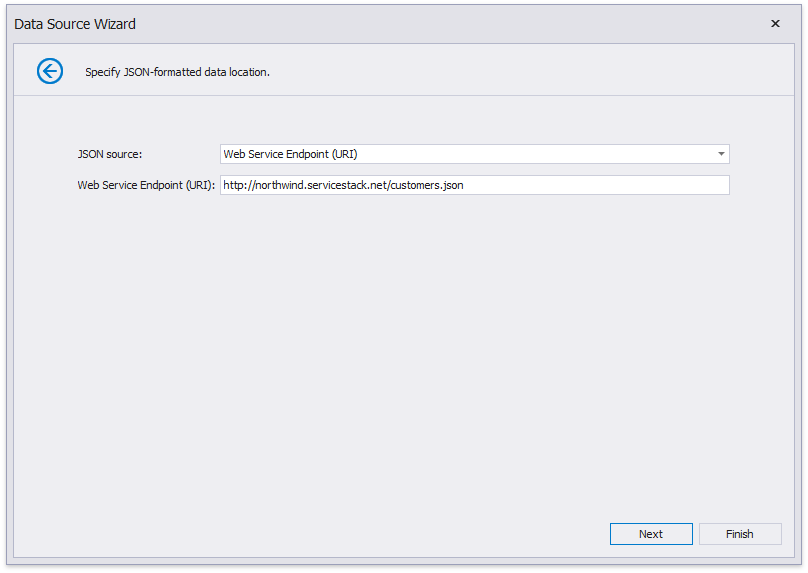
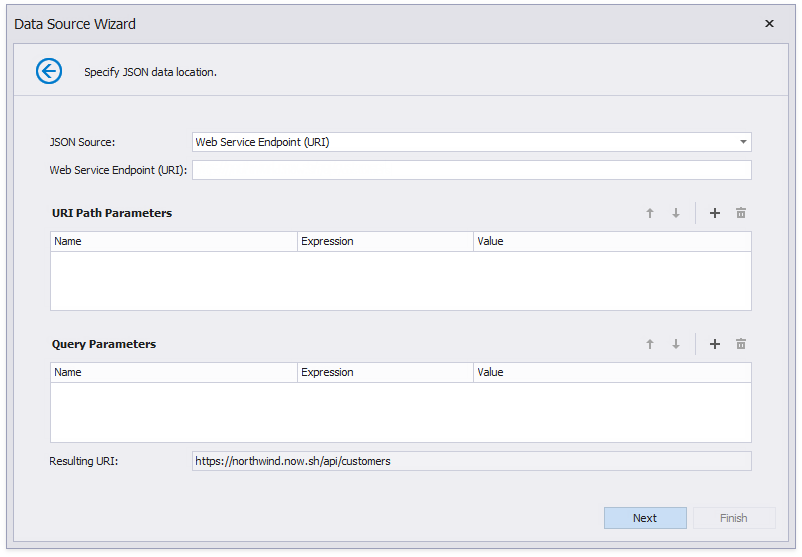
Describe JSON screens in Win

diff --git a/interface-elements-for-desktop/articles/report-designer/report-designer-for-winforms/bind-to-data/bind-a-report-to-json-data.md b/interface-elements-for-desktop/articles/report-designer/report-designer-for-winforms/bind-to-data/bind-a-report-to-json-data.md
@@ -23,29 +23,58 @@ This topic describes how to bind a report to JSON data at design time.
     > [!Note]
     > The Report Designer's Report Wizard provides the JSON option if the application has a reference to the open-source Newtonsoft.Json library.
 
-4. The next wizard page allows you to specify the location of the JSON-formatted data:
+4. The next wizard page allows you to specify a Web Service Endpoint, a filename, or a string with JSON data. In this example, the JSON data is obtained from a [JSON sample data location](https://northwind.now.sh/api/customers).
 
-    - Web Service Endpoint URI
+    - Choose **Web Service Endpoint** and specify the endpoint data.
 
         ![](../../../../images/eurd-win-JSON-URISource.png)
 
-    - File Name
+    - Choose **JSON File** and specify the JSON file location.
 
         ![](../../../../images/eurd-win-JSON-File.png)
 
-    - String with JSON Content
+    - Choose **JSON String** and provide the JSON data string.
 
         ![](../../../../images/eurd-win-JSON-String.png) 
 
-    If you choose the **Web Service Endpoint** option, you can configure a connection string on the next wizard pages.
+    If you choose the **Web Service Endpoint** option, you can configure a web service endpoint, URI path parameters, query parameters, and header parameters.
 
-    4.1. Specify request parameters.
+    4.1. Specify path parameters and query parameters.
 
     ![JSON-specify-request-parameters](../../../../images/eurd-win-JSON-specify-request-parameters.png)
 
-    > [!Tip]
-    > Specify the Basic HTTP Authentication parameters or header parameters to access JSON data.
+    You can enable the new parameter's **Expression** property and [use expressions](../use-expressions.md) to set path parameter and query parameter values.
 
+    - Select Expression Editor from the Value property's drop-down list, specify the expression in the invoked [Expression Editor](../use-expressions.md#expression-editor), and click OK.
+
+    ![JSON-specify-parameter-expression](../../../../images/eurd-win-JSON-path-parameter-specify-expression.png)
+
+    - Expressions can include [report parameters](../shape-report-data/use-report-parameters.md). Select New Report Parameter from the Value property's drop-down list, configure the report parameter in the invoked Report Parameter dialog, and click OK.
+
+    ![JSON-add-report-parameter](../../../../images/eurd-win-JSON-add-report-parameter.png)
+
+    > [!NOTE]
+    > The Data Source Wizard sends a request to the endpoint with the specified parameters to populate the data source and build the data source schema. Ensure that the parameters are always set to the values that the endpoint expects. Otherwise, the Data Source Wizard generates an error on the next steps.  
+    > For instance, if a user specifies the name of a JSON file in a parameter, specify the default file name in order to avoid the *File Not Found* error.
+
+    Path parameters and query parameters are included in endpoint requests in the same order as they are listed. Move a parameter up or down in the list to change its position in endpoint requests.
+
+    The **Resulting URI** read-only field shows how the resulting JSON URI looks.
+
+    ![JSON-resulting-uri](../../../../images/eurd-win-JSON-resulting-uri.png)
+
+    Click **Next** to proceed to the Wizard's next page.
+
+    4.2. Configure the Basic HTTP Authentication credentials and HTTP header parameters. Use the same steps as in P.4.1. above to configure a header parameter.
+
+    ![JSON-header-parameters](../../../../images/eurd-win-JSON-header-parameters.png)
+
+    4.3. Choose whether to save the created connection string to the application's configuration file. If not, the connection parameters are saved to the report's definition.
+
+    ![JSON-save-connection-string](../../../../images/eurd-win-JSON-save-connection-string.png)
+
+    > [!Tip]
+    > If the path parameters, query parameters, and header parameters you specified do not contain sensitive data, you can save them along with the connection parameters. Otherwise, the path parameters, query parameters, and header parameters are used once to retrieve JSON data to an object in memory. This object is accessible until you close the Report Designer.
 
 5. On the next page, the wizard shows the specified JSON data's structure. You can choose all nodes or a subset of nodes.
 
@@ -57,11 +86,9 @@ This topic describes how to bind a report to JSON data at design time.
 
     ![JSON-EditFieldNames](../../../../images/eurd-win-JSON-EditFieldNames.png)
 
-
 After you finish the wizard, it creates the **JsonDataSource** component. This component retrieves the checked data fields that the selected JSON element includes. The [Field List](..\report-designer-tools\ui-panels\field-list.md) reflects the data source structure.
  
 ![JSON-FieldList](../../../../images/eurd-win-JSON-FieldList.png)
-
 
 ## Customize the JSON Data Source
 

diff --git a/interface-elements-for-desktop/articles/report-designer/report-designer-for-winforms/report-designer-tools/data-source-wizard/connect-to-a-json-data-source/specify-json-data-location.md b/interface-elements-for-desktop/articles/report-designer/report-designer-for-winforms/report-designer-tools/data-source-wizard/connect-to-a-json-data-source/specify-json-data-location.md
@@ -4,9 +4,9 @@ title: 'Specify JSON Data Location'
 
 # Specify JSON Data Location
 
-This wizard page allows you to specify the location of the JSON-formatted data:
+This wizard page allows you to specify a Web Service Endpoint URI, a filename, or a string with JSON content. If you choose the **Web Service Endpoint** option, you can configure a connection string with URI path parameters and query parameters.
 
-- Web Service Endpoint URI
+- Web Service Endpoint
 
     ![](../../../../../../images/eurd-win-JSON-URISource.png)
 

diff --git a/interface-elements-for-desktop/articles/report-designer/report-designer-for-winforms/report-designer-tools/data-source-wizard/connect-to-a-json-data-source/configure-web-service-endpoint-request.md b/interface-elements-for-desktop/articles/report-designer/report-designer-for-winforms/report-designer-tools/data-source-wizard/connect-to-a-json-data-source/configure-web-service-endpoint-request.md
@@ -1,0 +1,10 @@
+---
+title: 'Configure Web Service Endpoint Request'
+owner: 'Mary Sammal'
+---
+
+# Configure Web Service Endpoint Request
+
+If you chose the **Web Service Endpoint** option on the [previous page](specify-json-data-location.md), you can specify the Basic HTTP Authentication credentials and HTTP header parameters for the Web Service Endpoint..
+
+![JSON-specify-request-parameters](../../../../../../images/eurd-win-JSON-header-parameters.png)
